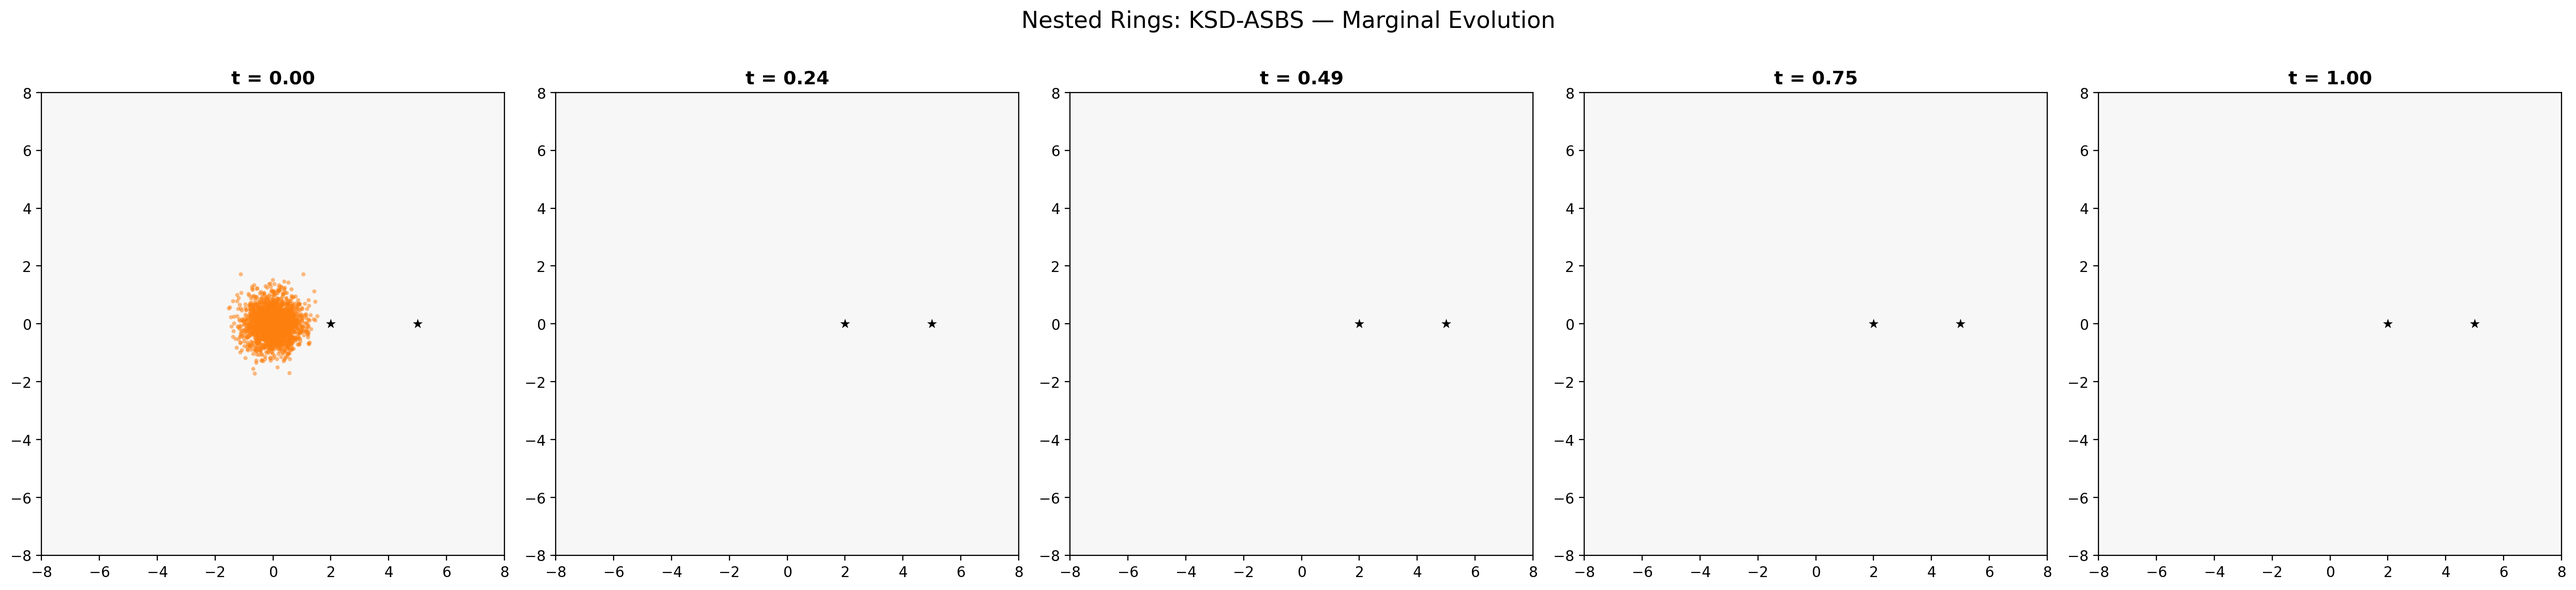
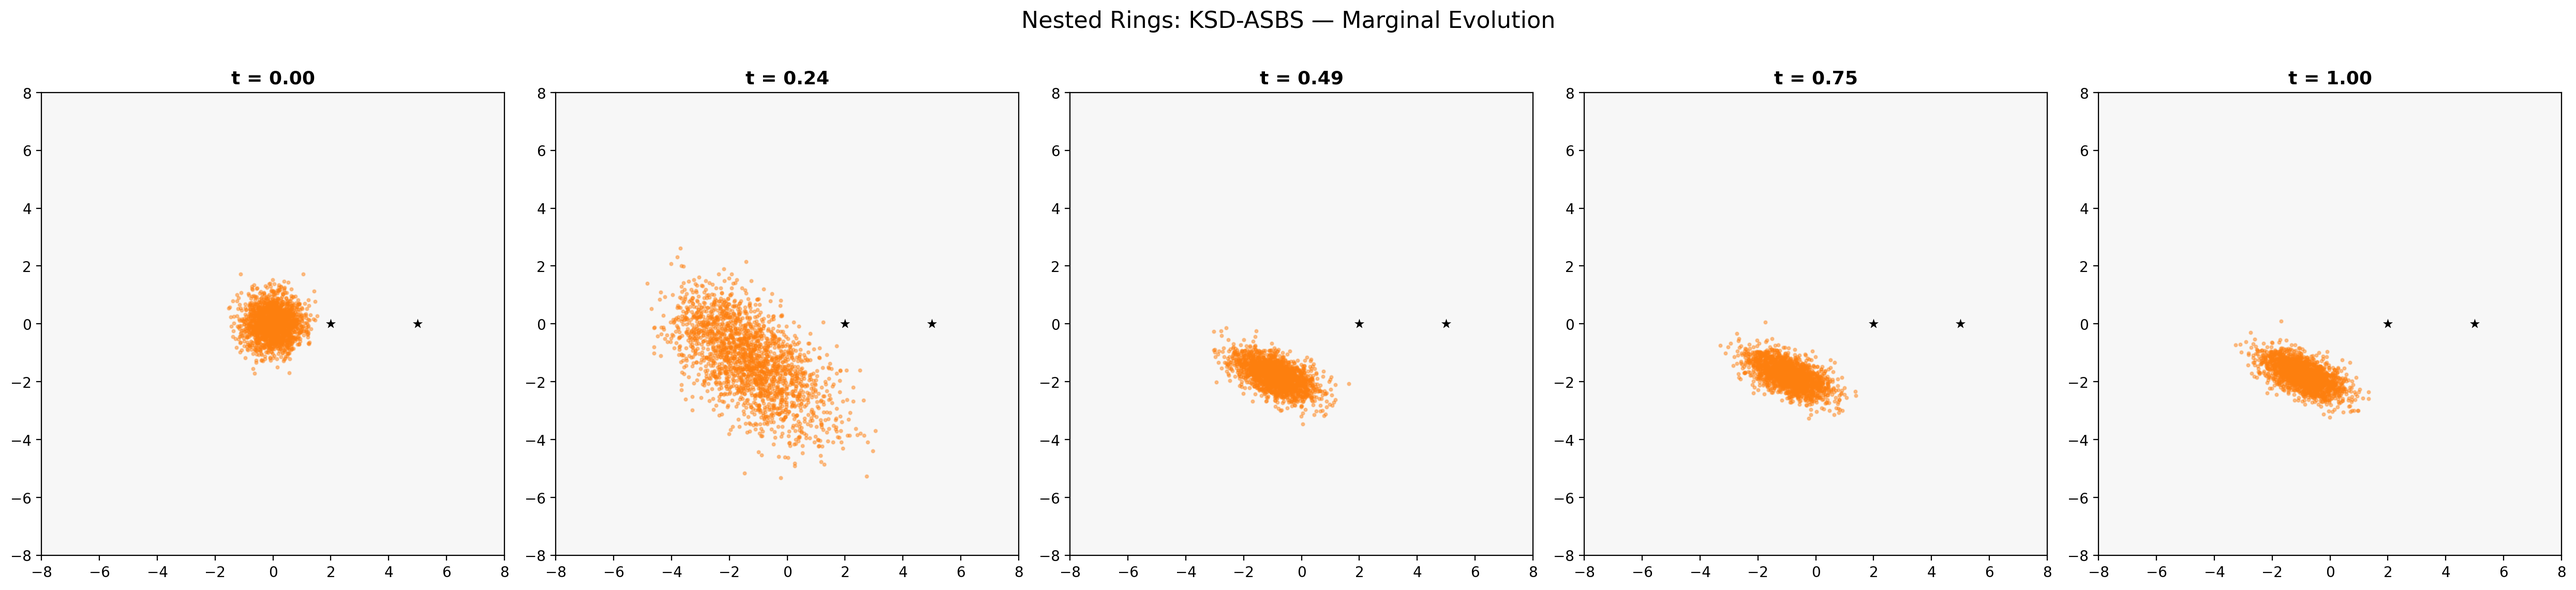
Remove pinwheel results, use best nested_rings KSD checkpoint (ep 700)

diff --git a/scripts/eval_2d_all.py b/scripts/eval_2d_all.py
@@ -267,13 +267,6 @@ BENCHMARKS = {
         'ksd': RESULTS_DIR / 'two_moons_ksd_asbs' / 'seed_0',
         'ksd_lambda': 0.01,
     },
-    'pinwheel': {
-        'name': 'Pinwheel (5-arm)',
-        'xlim': (-4, 4), 'ylim': (-4, 4),
-        'baseline': RESULTS_DIR / 'pinwheel_asbs' / 'seed_0',
-        'ksd': RESULTS_DIR / 'pinwheel_ksd_asbs' / 'seed_0',
-        'ksd_lambda': 0.1,
-    },
     'checkerboard': {
         'name': 'Checkerboard (4x4)',
         'xlim': (-5, 5), 'ylim': (-5, 5),
@@ -293,6 +286,7 @@ BENCHMARKS = {
         'xlim': (-8, 8), 'ylim': (-8, 8),
         'baseline': RESULTS_DIR / 'nested_rings_asbs' / 'seed_0',
         'ksd': RESULTS_DIR / 'nested_rings_ksd_asbs' / 'seed_0',
+        'ksd_ckpt': str(RESULTS_DIR / 'nested_rings_ksd_asbs' / 'seed_0' / 'checkpoints' / 'checkpoint_700.pt'),
         'ksd_lambda': 0.1,
     },
 }

diff --git a/evaluation/2d_result.md b/evaluation/2d_result.md
@@ -1,6 +1,6 @@
 # 2D Visualization Benchmark Results
 
-Generated: 2026-04-07 08:27:00 KST
+Generated: 2026-04-07 08:29:33 KST
 
 ---
 
@@ -47,29 +47,6 @@ Generated: 2026-04-07 08:27:00 KST
 ### Marginal Evolution: KSD-ASBS
 
 ![two_moons marginal ksd](figures_2d/two_moons_marginal_ksd.png)
-
----
-
-## Pinwheel (5-arm)
-
-| Metric | ASBS (Baseline) | KSD-ASBS (lambda=0.1) |
-|---|---|---|
-| Modes covered (of 5) | 5 | 4 |
-| Mean energy | 1.0253 | 1.1125 |
-| Std energy | 1.0745 | 1.2859 |
-| Per-mode counts | [300, 586, 481, 313, 313] | [1069, 408, 0, 212, 297] |
-
-### Terminal Distribution
-
-![pinwheel terminal](figures_2d/pinwheel_terminal.png)
-
-### Marginal Evolution: ASBS
-
-![pinwheel marginal asbs](figures_2d/pinwheel_marginal_asbs.png)
-
-### Marginal Evolution: KSD-ASBS
-
-![pinwheel marginal ksd](figures_2d/pinwheel_marginal_ksd.png)
 
 ---
 
@@ -124,9 +101,9 @@ Generated: 2026-04-07 08:27:00 KST
 | Metric | ASBS (Baseline) | KSD-ASBS (lambda=0.1) |
 |---|---|---|
 | Modes covered (of 2) | 2 | 0 |
-| Mean energy | 1.0235 | 164350.9531 |
-| Std energy | 1.1465 | 16040.8242 |
-| Per-mode counts | [15, 71] | [0, 0] |
+| Mean energy | 0.9022 | 2.3656 |
+| Std energy | 0.9165 | 1.1847 |
+| Per-mode counts | [26, 72] | [0, 0] |
 
 ### Terminal Distribution
 
